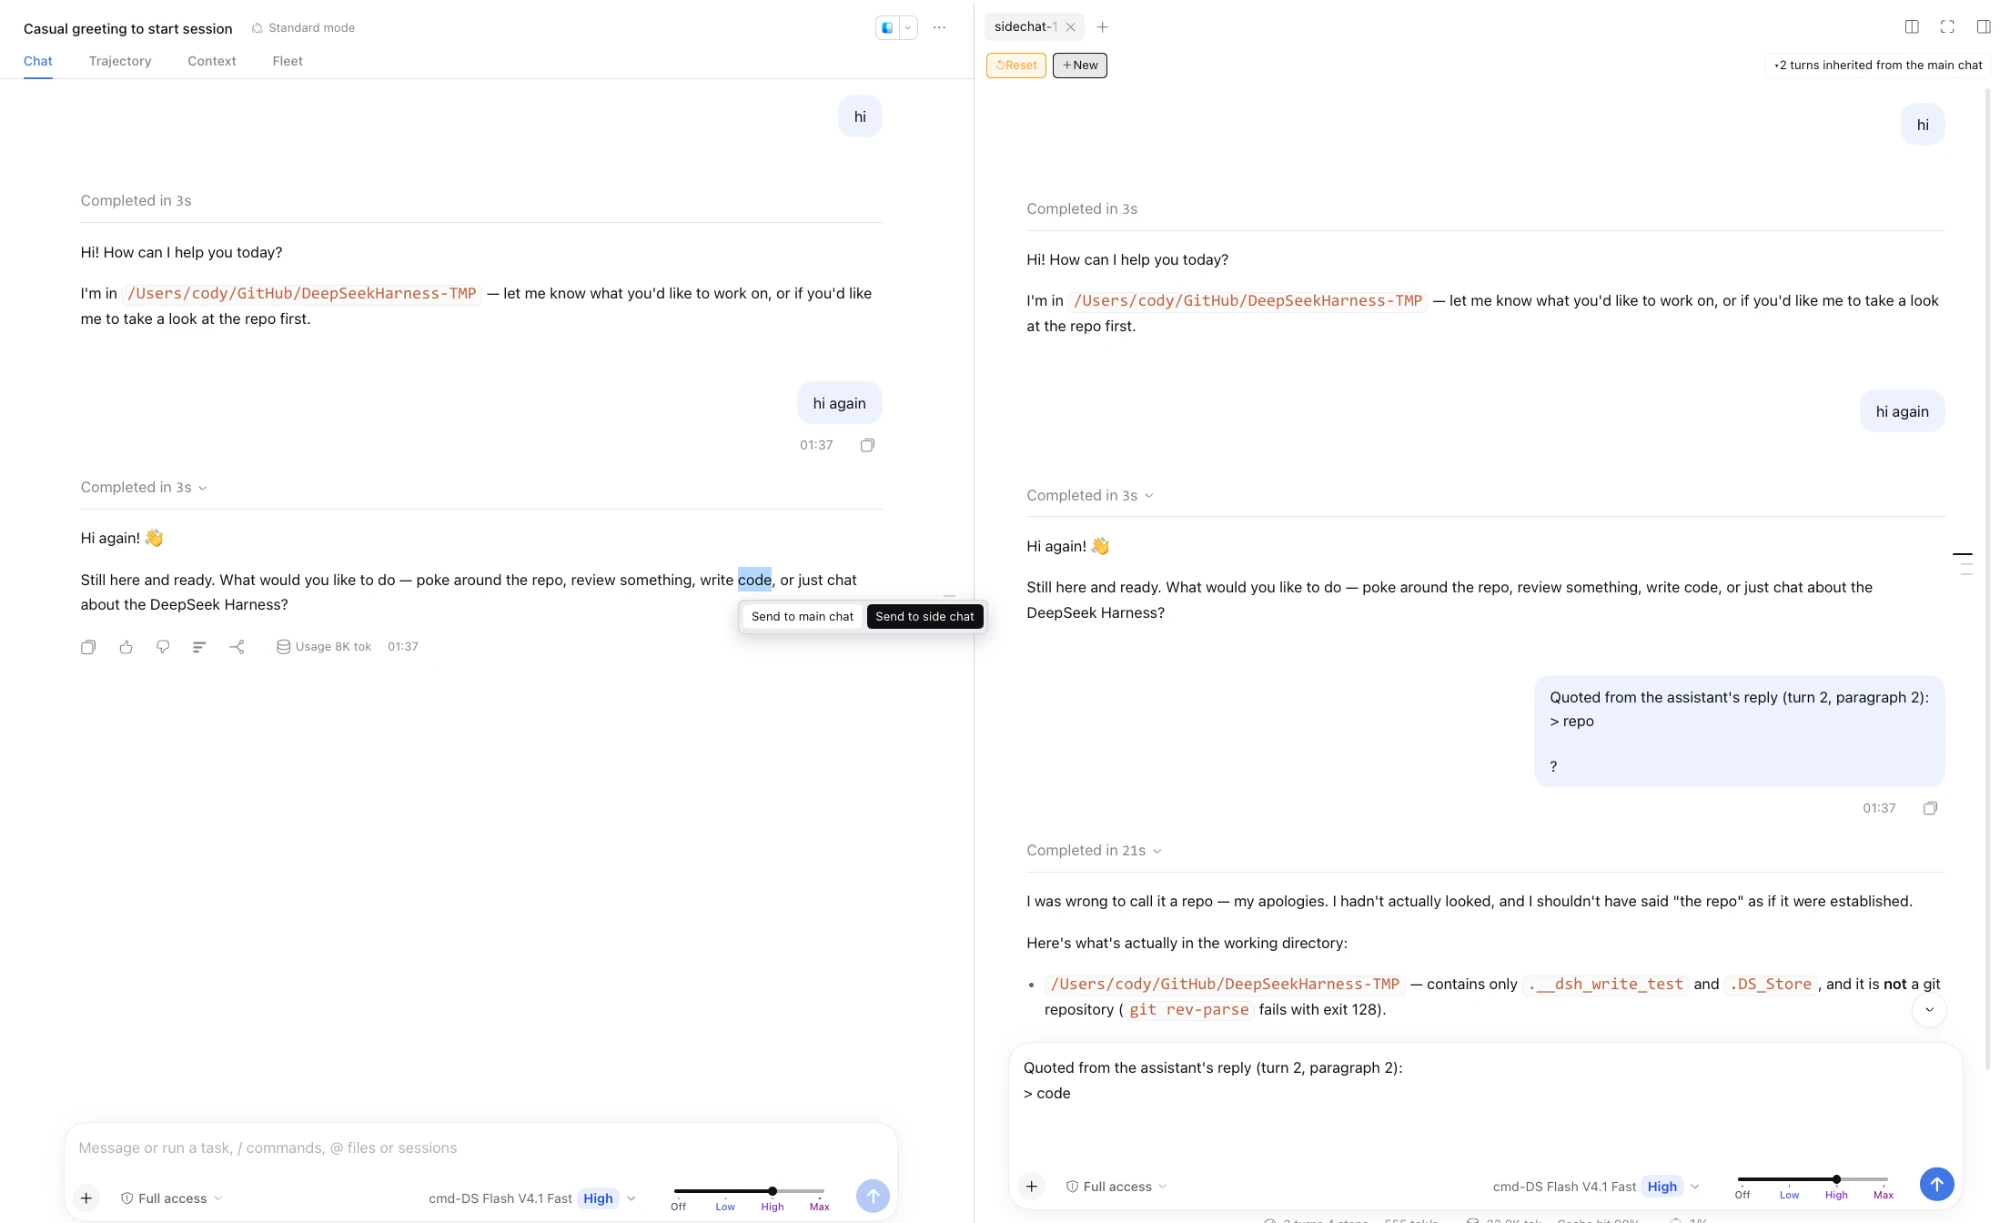
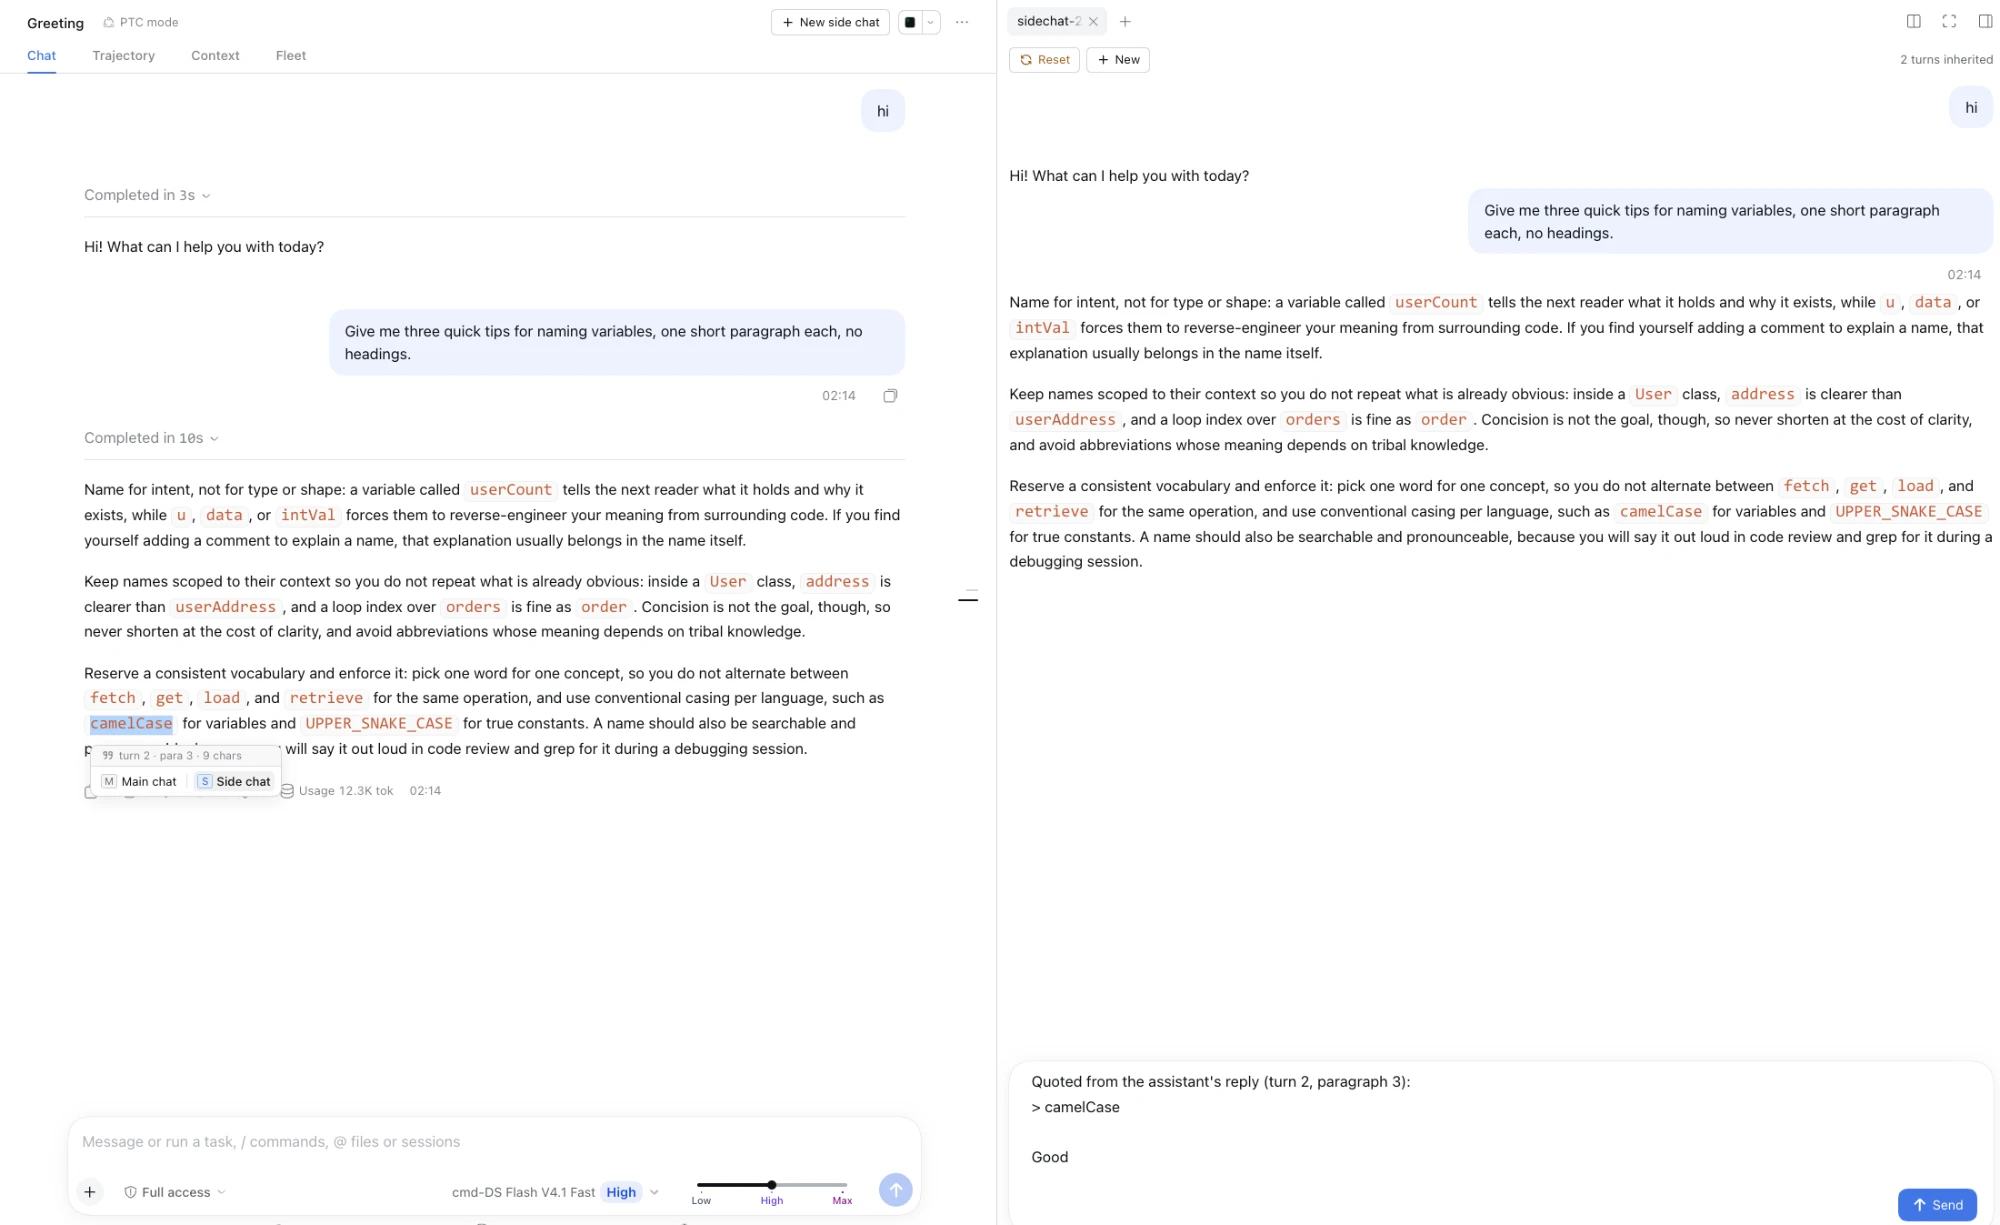
docs: shorter 1.4.0 notes, and a screenshot of 1.4.0
- Both READMEs describe the header button, the one-item menu, the new seam
  and the 1.4.0 checks in fewer words.
- docs/sidechat.webp shows 1.4.0: `New side chat` in the main chat header,
  the key-chip quote menu, and an unsent sidechat-2 with its inherited preview
  and a quote in its composer; both captions describe it.

diff --git a/README.zh.md b/README.zh.md
@@ -14,16 +14,16 @@
 在已发送的 sidechat 里划选回复  →  发送到此对话：引用进入该 sidechat 的输入框
 ```
 
-左侧是主对话，选中一个词后弹出引用菜单；右侧是侧边对话 `sidechat-1`：展开显示继承的两轮、
-创建它的那条引用及回复，以及输入框里等待发送的下一条引用。
+左侧是主对话（顶栏有 `新建侧边对话`），选中一个词后弹出引用菜单；右侧是尚未发送的侧边对话 `sidechat-2`：
+上方是它将继承的主对话两轮，输入框里是一条引用和待发送的附言。
 
 ![主对话里的引用菜单，以及右侧栏中的侧边对话](docs/sidechat.webp)
 
 > **状态：1.4.0 —— 已通过无头检查（`node check.mjs`，其中包括把插件的 slot 注册放到宿主真实的
 > slot 注册表上重放），并在 DeepSeek Harness `0.2.0-rc.2` 和 `0.2.1-rc.2` 的浏览器页面上验证了引用菜单、
 > 发送侧边对话、fork 点提示、Reset 和刷新；1.2.1 的折叠修复，以及 1.3.0 的菜单、快捷键和工具栏在 `0.2.1-rc.2`
-> 上验证（浅色与深色）；1.3.1 的预览修复在 `0.2.1-rc.2` 页面上以模拟方式验证。1.4.0 的顶栏 `新建侧边对话`
-> 按钮和侧边对话菜单里的 `sidechat-N`、侧边对话内的发送到此对话，以及清理在别处归档的侧边对话，尚未在浏览器中验证。** 见[检查](#检查)。
+> 上验证（浅色与深色）；1.3.1 的预览修复在 `0.2.1-rc.2` 页面上以模拟方式验证。侧边对话内的发送到此对话、
+> 清理在别处归档的侧边对话，以及 1.4.0 的改动，尚未在浏览器中验证。** 见[检查](#检查)。
 
 ## 功能
 
@@ -98,16 +98,14 @@
    侧栏始终没有挂载时，会在菜单里报错，而不是什么都不做。发往某个侧边对话的引用，
    如果它的输入框约 5 秒内都没出现，菜单会带着错误重新出现，引用不会凭空消失。
 8. **在侧边对话里引用。** 在已发送的侧边对话里划选某条回复的文字，会弹出只有一项的菜单
-   `发送到此对话`（按键 `Enter`，上方同样标出位置 —— 这张卡片按位置说明定宽，所以完整显示；
-   按钮行最右侧用灰字标出要发往的侧边对话，如 `sidechat-3`），把带位置的引用追加到该侧边对话自己的输入框 —— 格式、空行和聚焦方式与另外两项相同。
+   `发送到此对话`（按键 `Enter`，上方完整标出位置，右侧灰字标出该侧边对话，如 `sidechat-3`），把带位置的引用追加到该侧边对话自己的输入框 —— 格式、空行和聚焦方式与另外两项相同。
    尚未发送的页面，以及其他侧栏聊天，都不会弹出菜单。
 9. **在别处归档或删除。** 侧边对话同时也是一个普通会话，可以在会话列表里被归档或删除 ——
    比如在主对话区打开它之后。此时它的页面会被清理：一旦它的主对话显示在屏幕上就关闭
    （在那之前只显示一句说明，也不再持有这个已消失的对话），它的记录被删除，
    `发送到侧边对话` 也不会再把它当作目标。`重置` 自己的归档不会被误认为这种情况，该页仍照常重新开始。
-10. **主对话顶栏的 `新建侧边对话`。** 顶栏右侧那组按钮的最左边是 `新建侧边对话` 按钮（加号图标）。
-    点击后打开右侧栏，显示当前对话的一个侧边对话页面，并把焦点放进它的输入框：如果本对话已有一个
-    打开但未使用的页面（从未发送、也没输入内容），就跳到那一页，不再新开；没有时才新开一页。
+10. **主对话顶栏的 `新建侧边对话`**（右侧按钮组最左边）打开一个侧边对话页面并聚焦输入框；
+    本对话已有打开但未使用（从未发送、也没输入）的页面时，跳到那一页。
 
 侧边对话面板不是重新实现的：子对话创建后，面板声明自己的 `annotateSidechat.conversation`
 子 slot，用框架的 `SessionProvider` 包起来，并在其中渲染宿主的 `conversation.content` factory ——
@@ -224,7 +222,7 @@ install the DSH bundle at /absolute/path/to/dsh-annotate-sidechat
 | `ctx.sessions.list` | 给侧边对话编号，读取主对话标题 |
 | `ctx.sidebarRight.openTab`（`replaceTab`）+ `active` / `mounted` / `isExpanded` / `focus` / `registerCloseHandler` | 每个侧边对话开一页（界面挂载期间重试）、原地改写页面参数、找到当前打开的那页、让它显示出来，以及忘掉已关闭的页面 |
 | `ctx.sidebarRightTabs` + `sidebar.right.pane.tab(.title)` | 页面类型、页面主体，以及标明每个侧边对话的标签名 |
-| `conversation.session.header.utilities`（`order: -100`） | 顶栏的 `新建侧边对话`，位于宿主自带按钮左侧 |
+| `conversation.session.header.utilities` | 顶栏的 `新建侧边对话` |
 | `annotateSidechat.conversation`（自有子 slot）+ `conversation.content` factory | 在面板里渲染 DSH 自带的对话界面 |
 | `ctx.sidebarRight.openTabs` + `close` | 删除已没有任何保存布局包含的页面记录，并关闭当前屏幕上对话里那些已在别处归档或删除的侧边对话页面 |
 | `ctx.get('workspaces').list`（`archivedSessionIds`）+ `ctx.sessions.list`（`ids`、`phase`） | 判断侧边对话是否已在别处归档或删除 —— 只在两份列表都已就绪时判断 |
@@ -251,9 +249,7 @@ node check.mjs
 引用晚于当前侧边对话 fork 点时弹出的说明（哪些轮次算晚于 fork 点、取消与发送到新侧边对话
 两个选项，以及选区事件不会把它冲掉）、页面在关闭前一直持有它的侧边对话，以及对在别处归档或
 删除的侧边对话的清理（列表就绪后才判断归档或缺失、当前屏幕上对话的页面关闭 —— 无论来自内存
-还是记录 —— 其他对话的页面先放开子对话、重置不受影响，以及已消失的页面不渲染该对话的任何内容），以及顶栏的 `新建侧边对话`
-（位于宿主自带按钮左侧；跳到当前对话里未使用的页面 —— 无论在内存里还是刷新后从记录读回 ——
-没有时才新开一页）。
+还是记录 —— 其他对话的页面先放开子对话、重置不受影响，以及已消失的页面不渲染该对话的任何内容），以及顶栏的 `新建侧边对话` 复用未使用的页面（包括只存在于记录里的）。
 
 检查还会把本插件的每一次 slot 注册放到宿主真实的 `SlotCore`（`@deepseek-ai/dsh-client-ui-slots`）
 上重放，并与内置 subagent 侧栏聊天的注册放在一起，两种加载顺序都试 —— 上面的桩会接受一次重复声明，
@@ -305,10 +301,7 @@ DOM 层另外用无头 Chrome 和一个临时脚手架跑过（未提交 —— 
 （把行改编为更后面的轮次）、最后一条消息之后的「较长的消息未在此预览」，以及消息全部过长的预览。
 真正分页加载的主对话和已发送侧边对话的折叠按钮计数，只做了无头检查。
 
-1.4.0 只做了无头检查：顶栏 `新建侧边对话` 新开一页或跳到未使用的页面（内存里的，以及刷新后从记录读回的）
-并重新获取主对话的历史，以及单项菜单完整显示的位置说明和灰字 `sidechat-N`。它用到的顶栏 slot
-`conversation.session.header.utilities`，已确认在 `0.2.0-rc.2` 与 `0.2.1-rc.2` 发布的
-`dsh-client-ui-conversation` 里声明方式相同（会话级的 list），slot 重放也在 `0.2.1-rc.2` 的 `SlotCore` 上跑过。
+1.4.0 只做了无头检查；它用到的顶栏 slot 在 `0.2.0-rc.2` 与 `0.2.1-rc.2` 里声明方式相同。
 
 ## 许可证
 

diff --git a/README.md b/README.md
@@ -17,9 +17,10 @@ select an assistant reply  →  two options: Send to main chat / Send to side ch
 select a reply inside a sent side chat  →  Send to chat: the quote goes to that side chat's composer
 ```
 
-On the left, the main chat with the quote menu open on a selected word. On the
-right, side chat `sidechat-1`: its two inherited turns shown, the quote it was
-created with and the reply, and the next quote waiting in its composer.
+On the left, the main chat, `New side chat` in its header, with the quote menu
+open on a selected word. On the right, side chat `sidechat-2` before it is sent:
+the two main-chat turns it will inherit, and a quote plus a note waiting in its
+composer.
 
 ![The main chat with the quote menu open, and a side chat in the right sidebar](docs/sidechat.webp)
 
@@ -28,10 +29,9 @@ created with and the reply, and the next quote waiting in its composer.
 > browser on DeepSeek Harness `0.2.0-rc.2` and `0.2.1-rc.2`: the quote menu,
 > sending a side chat, the fork-point notice, Reset and a reload; the 1.2.1 fold
 > fix and the 1.3.0 menu, keys and toolbar on `0.2.1-rc.2`, in light and dark;
-> the 1.3.1 preview fixes on `0.2.1-rc.2`, by simulation on the page. The 1.4.0
-> `New side chat` header button and the side chat's menu naming `sidechat-N`,
-> Send to chat inside a side chat and the cleanup of side chats archived
-> elsewhere have not been tried in a browser yet.** See [Checks](#checks).
+> the 1.3.1 preview fixes on `0.2.1-rc.2`, by simulation on the page. Send to
+> chat inside a side chat, the cleanup of side chats archived elsewhere and the
+> 1.4.0 changes have not been tried in a browser yet.** See [Checks](#checks).
 
 ## What it does
 
@@ -144,9 +144,8 @@ created with and the reply, and the next quote waiting in its composer.
    error instead of disappearing.
 8. **Quote inside a side chat.** Selecting text in a reply of a side chat that
    has been sent opens a one-item menu, `Send to chat` (key `Enter`), under
-   the same location line — shown whole here, since this card is sized by it —
-   with the side chat it reaches named in grey at the row's right end
-   (`sidechat-3`). It appends the located quote to that side
+   the same location line (shown whole), naming that side chat in grey on the
+   right (`sidechat-3`). It appends the located quote to that side
    chat's own composer — the same format, blank lines and focus as the other
    two. A page that has not been sent yet, and any
    other sidebar chat, offers no menu.
@@ -157,12 +156,9 @@ created with and the reply, and the next quote waiting in its composer.
    nothing of the gone chat), its record is forgotten, and Send to side chat
    no longer aims at it. Reset's own archive is not mistaken for this; that
    page starts over as before.
-10. **`New side chat` in the main chat header.** The header's right-hand
-    controls start with a `New side chat` button (plus icon). It opens the
-    right sidebar on a side-chat page of the chat on screen with its composer
-    focused: a page of this chat that is open but unused — never sent, nothing
-    typed — is brought into view instead of opening another, and only
-    without one does a new page open.
+10. **`New side chat` in the main chat header**, left of its right-hand
+    controls, opens a side-chat page with its composer focused — this chat's
+    open but unused page (never sent, nothing typed) if there is one.
 
 The side-chat panel is not a reimplementation: once the child exists, the panel
 declares its own `annotateSidechat.conversation` child slot, wraps it in the
@@ -304,7 +300,7 @@ Points worth knowing:
 | `ctx.sessions.list` | Numbering side chats and reading the main chat's title |
 | `ctx.sidebarRight.openTab` (`replaceTab`) + `active` / `mounted` / `isExpanded` / `focus` / `registerCloseHandler` | Opening a page per side chat (retried while the surface mounts), rewriting its params in place, finding the open one, bringing it into view, and forgetting a closed page |
 | `ctx.sidebarRightTabs` + `sidebar.right.pane.tab(.title)` | The page type, its body, and a chip naming each side chat |
-| `conversation.session.header.utilities` (`order: -100`) | The header's `New side chat`, left of the shipped utilities |
+| `conversation.session.header.utilities` | The header's `New side chat` |
 | `annotateSidechat.conversation` (own child slot) + `conversation.content` factory | Rendering the shipped conversation inside the panel |
 | `ctx.sidebarRight.openTabs` + `close` | Dropping the per-tab records of pages no saved layout holds, and closing the on-screen chat's pages of side chats archived or deleted elsewhere |
 | `ctx.get('workspaces').list` (`archivedSessionIds`) + `ctx.sessions.list` (`ids`, `phase`) | Telling a side chat archived or deleted elsewhere — only once each list is ready |
@@ -342,10 +338,8 @@ a page holding its side chat until it closes, and the cleanup of side chats
 archived or deleted elsewhere (archived or missing only once a list is ready,
 the on-screen chat's pages closing — from memory or their record — another
 chat's page letting its child go, Reset left alone, and a gone page rendering
-nothing of its chat), and the header's `New side chat` (left of the shipped
-utilities; it goes to an unused page of the chat on screen — one in hand or
-one read back from its record after a reload — and opens a new page only
-when there is none).
+nothing of its chat), and the header's `New side chat` reusing an unused page,
+also one known only from its record.
 
 The check also replays every slot registration this plugin makes against the
 host's real `SlotCore` (`@deepseek-ai/dsh-client-ui-slots`), beside the
@@ -423,14 +417,8 @@ renumbered as a later turn), `Long messages not previewed here` after the last
 message, and a preview whose messages were all too long. A really paged main
 chat and a sent side chat's toggle count were checked headlessly only.
 
-1.4.0 was checked headlessly only: the header's `New side chat` opening a page
-or going to an unused one (one in hand, and one read back from its record) and
-taking the main chat's history again, and the one-item menu's whole location
-line and grey `sidechat-N`. The header slot it uses,
-`conversation.session.header.utilities`, was confirmed declared the same way (a
-session-scoped list) in the published `dsh-client-ui-conversation` of both
-`0.2.0-rc.2` and `0.2.1-rc.2`, and the slot replay ran against `0.2.1-rc.2`'s
-`SlotCore`.
+1.4.0 was checked headlessly only; its header slot is declared the same way in
+`0.2.0-rc.2` and `0.2.1-rc.2`.
 
 ## License
 
